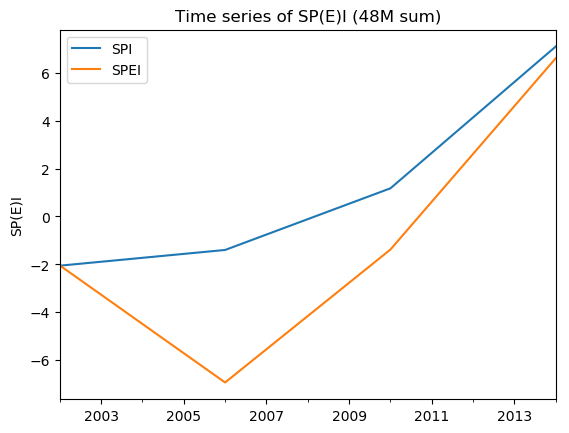
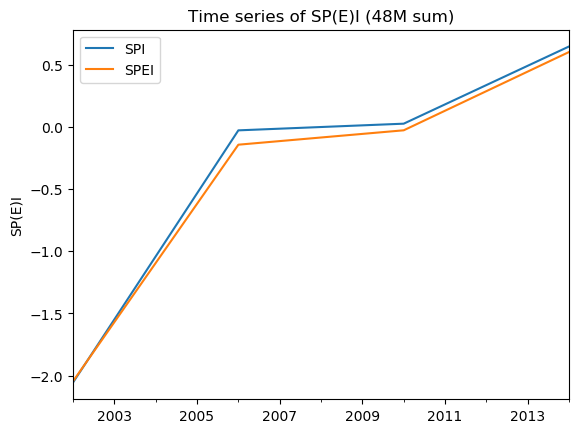
task b fertig hoffentlich

diff --git a/taskB.py b/taskB.py
@@ -1,9 +1,5 @@
 # -*- coding: utf-8 -*-
-"""
-Created on May 24 11:55 2019
 
-@author: tstachl
-"""
 import os
 import utils
 import numpy as np
@@ -12,36 +8,72 @@ import scipy.stats as stats
 import matplotlib.pyplot as plt
 import xarray as xr
 
-
-def calc_spi(da):
+def standardized_drought_index(ts, time_scale):
     """
-    calculate SPI for given rainfall DataArray
-    """
-    # name of variable
-    var_name = da.var().name
+    Calculate SPI/SPEI for a single P / P-ET time series.
 
-    # basin mean
-    basin_mean = da.groupby('time').mean().to_dataframe()
+    Das glätten muss vor dem schätzen der Verteilung gemacht werden.
+    Die CDF Verteilung wird dann mit allen monaten minus jenen die vom
+    glätten wegfallen für jedes monat seperat geschätzt und dann
+    aber auf die gekürzte Zeitserie mittels PPF angewandt.
+
+    Nicht gut implementiert - braucht eine monatlich gesampelte
+    zeitserie und im letzten Jahr zumindest so viele Monate Daten
+    wie der parameter time_scale gesetzt ist!
+    """
+
+    # store original datetime index
+    index_orig = ts.index
+
+    # apply rolling window
+    # -------------------------------------------------------------------------
+    if time_scale != 1:
+        ts_smoothed = (ts
+                       .rolling(window=time_scale,
+                               min_periods=time_scale,
+                               center=False)
+                       .mean() # does not matter if mean or sum
+                       .dropna())
+    else:
+        ts_smoothed = ts
 
     # apply gamma fit for each month group
-    gammaparams = (basin_mean.groupby(basin_mean.index.month).apply(stats.gamma.fit))
+    # -------------------------------------------------------------------------
+    gamma_params = (ts_smoothed
+                    .groupby(ts_smoothed.index.month)
+                    .apply(stats.gamma.fit))
 
     # dict to store yearly ppf's per month
     ppf_per_month = {}
 
     # get ppf for each month separately
-    for month in gammaparams.index.values:
-        values_of_month = basin_mean[var_name][basin_mean.index.month == month]
-        a, loc, scale = gammaparams[month]
+    for month in gamma_params.index.values:
+        values_of_month = ts_smoothed[ts_smoothed.index.month == month]
+        a, loc, scale = gamma_params[month]
         cdf = stats.gamma.cdf(values_of_month, a, loc, scale)
         ppf = stats.norm.ppf(cdf)
-        ppf_per_month[month] = ppf
+        if ppf.ndim != 1:
+            ppf_per_month[month] = np.concatenate(ppf).ravel().tolist()
+        else:
+            ppf_per_month[month] = ppf.tolist()
+
+    # pad values which are missing due to smoothing with np.nans
+    # -------------------------------------------------------------------------
+    len_dict = {}
+    for k, v in ppf_per_month.items():
+        len_dict[k] = len(v)
+
+    max_len = np.array(list(len_dict.values())).max()
+
+    for k, v in ppf_per_month.items():
+        if len_dict[k] < max_len:
+            ppf_per_month[k].insert(0, np.nan)
 
     # Reconstruction of time series (kann man sicher sauberer/flotter machen)
     # -------------------------------------------------------------------------
-
     # create a year index
-    idx = np.arange(basin_mean.index.year[0], basin_mean.index.year[-1] + 1)
+    idx = np.arange(ts_smoothed.index.year[0],
+                    ts_smoothed.index.year[-1] + 1)
 
     # ppf dict to data frame
     df = pd.DataFrame.from_dict(ppf_per_month).transpose()
@@ -51,16 +83,18 @@ def calc_spi(da):
     df = df.transpose()
 
     # stack and reset the index
-    stacked = df.stack().reset_index()
+    df_stacked = df.stack().reset_index()
 
     # create index based on year and month multiindex
-    new_idx = pd.to_datetime(stacked.level_0.astype('str') + '-' + stacked.level_1.astype('str') + '-01',
-                             format='%Y-%m-%d')
-    stacked = stacked.set_index(new_idx)
-    stacked = stacked.drop(columns=['level_0', 'level_1'])
-    stacked = stacked.rename(columns={0: 'SPI'})
+    new_idx = pd.to_datetime(
+        df_stacked.level_0.astype('str') + '-' + df_stacked.level_1.astype(
+            'str') + '-01',
+        format='%Y-%m-%d')
+    df_stacked = df_stacked.set_index(new_idx)
+    df_stacked = df_stacked.drop(columns=['level_0', 'level_1'])
+    df_stacked = df_stacked.rename(columns={0: 'Agg-{}'.format(time_scale)})
 
-    return stacked
+    return df_stacked.reindex(index_orig)
 
 
 def calc_spei(da_prec, da_pet):
@@ -178,7 +212,103 @@ def plot_ts(da, aggr, out_dir):
     plt.close()
 
 
+def plots_taskb(time_scales=[1, 3, 6, 12, 24, 36, 48]):
+    """
+    Plots of P, PET, AET and SPI, SPEI for the aggregation times
+    of 3, 12 and 48 months
+    """
+
+    # read input data
+    # -------------------------------------------------------------------------
+    da_trmm = utils.read_nc(os.path.join(data_dir,
+                                         'TRMM_TMPA_monthly_0d25.nc'),
+                            'precipitation')
+    da_trmm *= (30. * 24.)
+    da_trmm.attrs['units'] = 'mm/month'
+
+    fname = os.path.join(data_dir, 'GLEAM_PET_monthly_0d25.nc')
+    da_pet = utils.read_nc(fname, 'PET')
+    da_pet *= (30.)
+    da_pet.attrs['units'] = 'mm/month'
+
+    fname = os.path.join(data_dir, 'GLEAM_AET_monthly_0d25.nc')
+    da_aet = utils.read_nc(fname, 'AET')
+    da_aet *= (30.)
+    da_aet.attrs['units'] = 'mm/month'
+
+    # compute basin sums
+    # -------------------------------------------------------------------------
+    trmm_basin = da_trmm.groupby('time').sum().to_dataframe()
+    trmm_basin = trmm_basin[:'2017-12-01']  # common period with GLEAM
+    trmm_basin = trmm_basin.rename(columns={'precipitation': 'P'})
+
+    pet_basin = da_pet.groupby('time').sum().to_dataframe()
+    aet_basin = da_aet.groupby('time').sum().to_dataframe()
+
+    basin_sums = pd.concat([trmm_basin, pet_basin, aet_basin], axis=1)
+
+    # iterate over time scales and create plots
+    for time_scale in time_scales:
+        # apply moving window to basin sums
+        # -------------------------------------------------------------------------
+        basin_sums_smoothed = (basin_sums
+                       .rolling(window=time_scale,
+                                min_periods=time_scale,
+                                center=False)
+                       .mean()  # does not matter if mean or sum
+                       .dropna())
+
+        # calc SPI and SPEI
+        # -------------------------------------------------------------------------
+        spi = standardized_drought_index(trmm_basin, time_scale=time_scale)
+
+        p_minus_et = basin_sums['P'] - basin_sums['PET']
+        spei = standardized_drought_index(p_minus_et, time_scale=time_scale)
+
+        # create plot
+        # -------------------------------------------------------------------------
+        fig, axes = plt.subplots(3, 1, sharex=True, figsize=(10,6))
+
+        # AX 0: Basin sums
+        basin_sums_smoothed.plot(ax=axes[0])
+        axes[0].set_title('Window size for aggregation: {} months'.format(time_scale))
+        axes[0].set_ylabel('[mm]')
+
+        # AX 1: SPI
+        spi.plot(ax=axes[1], color='black', legend=False, ylim=(-3, 3))
+        axes[1].set_title('SPI-{}'.format(time_scale))
+        axes[1].set_ylabel('[-]')
+
+        axes[1].axhline(2, linestyle='-.', color='grey', alpha=0.3)
+        axes[1].axhline(1, linestyle='--', color='grey', alpha=0.4)
+        axes[1].axhline(0, linestyle='-', color='darkgrey', alpha=0.5)
+        axes[1].axhline(-1, linestyle='--', color='grey', alpha=0.4)
+        axes[1].axhline(-2, linestyle='-.', color='grey', alpha=0.3)
+
+        # AX 2: SPEI
+        spei.plot(ax=axes[2], color='black', legend=False, ylim=(-3, 3))
+        axes[2].set_title('SPEI-{}'.format(time_scale))
+        axes[2].set_ylabel('[-]')
+
+        axes[2].axhline(2, linestyle='-.', color='grey', alpha=0.3)
+        axes[2].axhline(1, linestyle='--', color='grey', alpha=0.4)
+        axes[2].axhline(0, linestyle='-', color='darkgrey', alpha=0.5)
+        axes[2].axhline(-1, linestyle='--', color='grey', alpha=0.4)
+        axes[2].axhline(-2, linestyle='-.', color='grey', alpha=0.3)
+
+        # save figure
+        plt.savefig(
+            os.path.join(out_dir, 'taskB', 'felix',
+                         'taskb_time_scale_{}.png'.format(time_scale)),
+            bbox_inches="tight")
+        plt.close()
+
+
+
 if __name__ == '__main__':
+    import warnings
+    warnings.filterwarnings('ignore', category=RuntimeWarning)
+
     # get directory containing this python file.
     project_dir = os.path.dirname(os.path.realpath(__file__))
 
@@ -188,36 +318,49 @@ if __name__ == '__main__':
     # output directory
     out_dir = os.path.join(project_dir, 'results')
 
-    fname_merged = os.path.join(data_dir, 'RAINFALL_MERGED_monthly_0d25.nc')
-    da_trmm = utils.read_nc(fname_merged, 'TRMM')
+    # read input data
+    # -------------------------------------------------------------------------
+    """
+    da_trmm = utils.read_nc(os.path.join(data_dir,
+                                         'TRMM_TMPA_monthly_0d25.nc'),
+                            'precipitation')
+    da_trmm *= (30. * 24.)
+    da_trmm.attrs['units'] = 'mm/month'
 
     fname = os.path.join(data_dir, 'GLEAM_PET_monthly_0d25.nc')
     da_pet = utils.read_nc(fname, 'PET')
-    da_pet = da_pet * (30.)
+    da_pet *= (30.)
     da_pet.attrs['units'] = 'mm/month'
 
     fname = os.path.join(data_dir, 'GLEAM_AET_monthly_0d25.nc')
     da_aet = utils.read_nc(fname, 'AET')
-    da_aet = da_aet * (30.)
+    da_aet *= (30.)
     da_aet.attrs['units'] = 'mm/month'
+    """
 
+    # task B plots
+    # -------------------------------------------------------------------------
+    plots_taskb()
+
+
+    """
     aggr = '48M'
 
     # calc and plot SPI with TRMM
-    stacked_spi = calc_spi(da_trmm)
-    stacked_spi = stacked_spi.resample(aggr).sum()
+    spi = calc_spi(da_trmm)
+    spi = spi.resample(aggr).mean()
     # plot_index(stacked_spi, 'SPI', ['TRMM'], aggr, True, out_dir)
 
     # calc and plot SPEI with TRMM and GLEAM PET
-    stacked_spei = calc_spei(da_trmm, da_pet)
-    stacked_spei = stacked_spei.resample(aggr).sum()
+    spei = calc_spei(da_trmm, da_pet)
+    spei = spei.resample(aggr).mean()
     # plot_index(stacked_spei, 'SPEI', ['TRMM', 'GLEAM'], aggr, True, out_dir)
 
     # plot_ts(da_trmm, aggr, out_dir)
 
-    basin_mean_pet = da_pet.groupby('time').mean().to_dataframe().resample(aggr).sum()
-    basin_mean_aet = da_aet.groupby('time').mean().to_dataframe().resample(aggr).sum()
-    basin_mean_trmm = da_trmm.groupby('time').mean().to_dataframe().resample(aggr).sum()
+    basin_mean_pet = da_pet.groupby('time').sum().to_dataframe().resample(aggr).mean()
+    basin_mean_aet = da_aet.groupby('time').sum().to_dataframe().resample(aggr).mean()
+    basin_mean_trmm = da_trmm.groupby('time').sum().to_dataframe().resample(aggr).mean()
 
     merged = pd.concat([basin_mean_pet, basin_mean_aet, basin_mean_trmm], axis=1)
     merged.plot()
@@ -229,7 +372,7 @@ if __name__ == '__main__':
     plt.show()
     plt.close()
 
-    merged = pd.concat([stacked_spi, stacked_spei], axis=1)
+    merged = pd.concat([spi, spei], axis=1)
     merged.plot()
     plt.title('Time series of SP(E)I ({} sum)'.format(aggr))
     plt.ylabel('SP(E)I')
@@ -238,7 +381,4 @@ if __name__ == '__main__':
         bbox_inches="tight")
     plt.show()
     plt.close()
-
-
-
-
+    """
